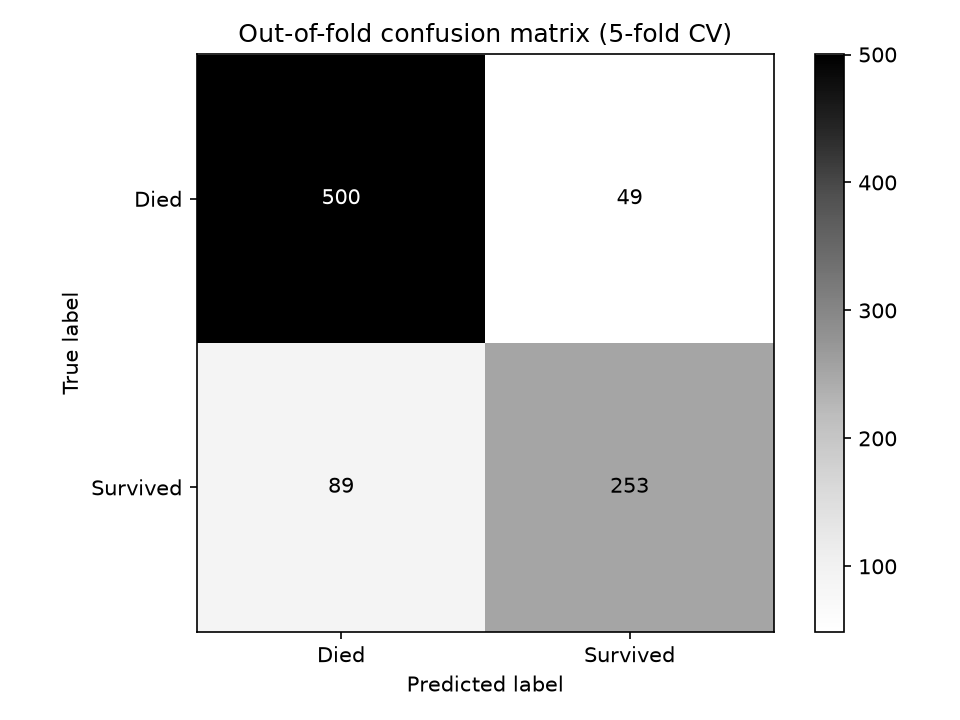
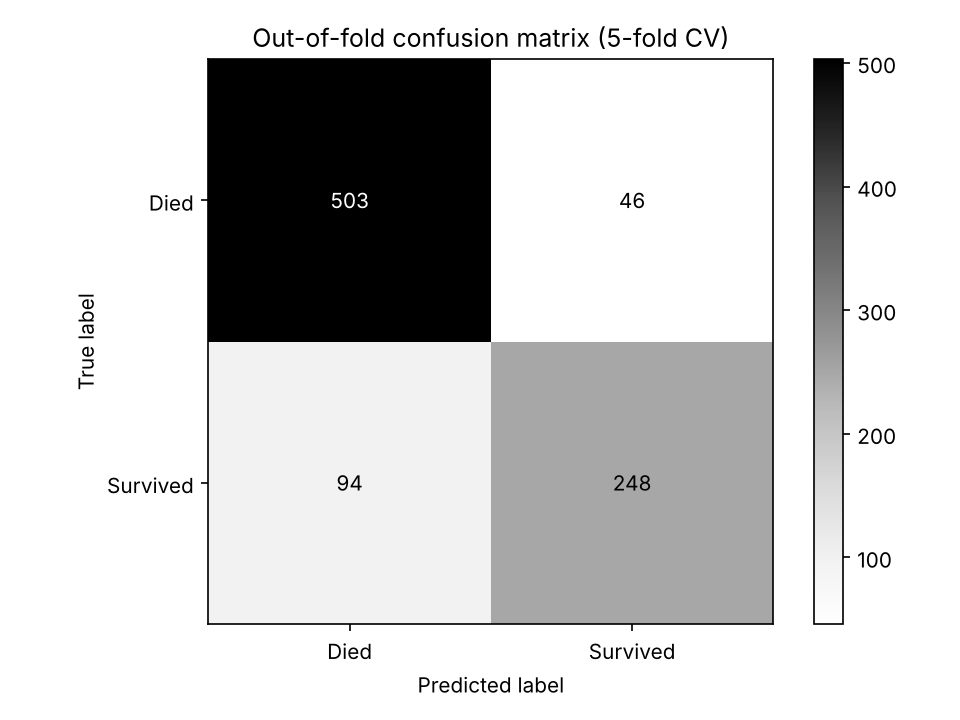
feat: submit woman-child-group model
Women survive and men do not, except where a passenger's travel group
(shared ticket, or surname + class + ticket prefix) shows otherwise:
women whose group's women and boys all died are predicted to die, and
boys whose group all survived are predicted to survive. Group rates are
learned from training folds only, so CV stays leakage-free.

Repeated 10x5-fold CV: 0.841 +/- 0.025. titanic-train now evaluates and
saves this model; gradient boosting stays in titanic-experiments.

Claude-Session: https://claude.ai/code/session_01RfAwneZbQ9h6XaAmY3SnCt

diff --git a/src/titanic/train.py b/src/titanic/train.py
@@ -1,4 +1,4 @@
-"""Tune gradient boosting, evaluate it out-of-fold and save the final model."""
+"""Evaluate the woman-child-group model out-of-fold and save it."""
 
 import logging
 from pathlib import Path
@@ -7,37 +7,35 @@ import joblib
 import matplotlib.pyplot as plt
 import pandas as pd
 from sklearn.metrics import ConfusionMatrixDisplay, classification_report
-from sklearn.model_selection import GridSearchCV, StratifiedKFold, cross_val_predict
+from sklearn.model_selection import (
+    RepeatedStratifiedKFold,
+    StratifiedKFold,
+    cross_val_predict,
+    cross_val_score,
+)
 
 from titanic.data import load_train
-from titanic.pipeline import build_pipeline
+from titanic.groups import WomanChildGroupClassifier
 
 logger = logging.getLogger(__name__)
 
 RANDOM_STATE = 42
 N_SPLITS = 5
+N_REPEATS = 10
 MODEL_PATH = Path("models/model.joblib")
 FIGURE_PATH = Path("reports/figures/confusion_matrix.png")
 CLASS_NAMES = ["Died", "Survived"]
-
-# "model__" targets the pipeline step named "model".
-PARAM_GRID = {
-    "model__n_estimators": [100, 200, 300],
-    "model__learning_rate": [0.05, 0.1],
-    "model__max_depth": [2, 3, 4],
-}
-
 
 def make_cv() -> StratifiedKFold:
     """Return the stratified 5-fold splitter used everywhere in the project."""
     return StratifiedKFold(n_splits=N_SPLITS, shuffle=True, random_state=RANDOM_STATE)
 
 
-def tune(X: pd.DataFrame, y: pd.Series) -> GridSearchCV:
-    """Try every parameter combination with cross-validation and keep the best."""
-    search = GridSearchCV(build_pipeline(), PARAM_GRID, cv=make_cv(), scoring="accuracy")
-    search.fit(X, y)
-    return search
+def make_repeated_cv() -> RepeatedStratifiedKFold:
+    """Return repeated 5-fold CV, for tighter estimates on 891 passengers."""
+    return RepeatedStratifiedKFold(
+        n_splits=N_SPLITS, n_repeats=N_REPEATS, random_state=RANDOM_STATE
+    )
 
 
 def save_confusion_matrix(
@@ -55,23 +53,22 @@ def save_confusion_matrix(
 
 
 def main() -> None:
-    """Tune, evaluate and save the final gradient boosting pipeline."""
+    """Evaluate, fit and save the final woman-child-group model."""
     logging.basicConfig(level=logging.INFO, format="%(levelname)s: %(message)s")
     X, y = load_train()
+    model = WomanChildGroupClassifier()
 
-    search = tune(X, y)
-    std = search.cv_results_["std_test_score"][search.best_index_]
-    logger.info("Best parameters: %s", search.best_params_)
-    logger.info("Tuned CV accuracy: %.3f ± %.3f", search.best_score_, std)
+    scores = cross_val_score(model, X, y, cv=make_repeated_cv(), scoring="accuracy")
+    logger.info("Repeated CV accuracy: %.3f ± %.3f", scores.mean(), scores.std())
 
-    y_pred = cross_val_predict(search.best_estimator_, X, y, cv=make_cv())
+    y_pred = cross_val_predict(model, X, y, cv=make_cv())
     report = classification_report(y, y_pred, target_names=CLASS_NAMES, digits=3)
     logger.info("Out-of-fold classification report:\n%s", report)
     save_confusion_matrix(y, y_pred)
     logger.info("Saved confusion matrix to %s", FIGURE_PATH)
 
     MODEL_PATH.parent.mkdir(parents=True, exist_ok=True)
-    joblib.dump(search.best_estimator_, MODEL_PATH)
+    joblib.dump(model.fit(X, y), MODEL_PATH)
     logger.info("Saved model to %s", MODEL_PATH)
 
 

diff --git a/src/titanic/groups.py b/src/titanic/groups.py
@@ -1,0 +1,73 @@
+"""Woman-child-group model: passengers who travelled together shared a fate.
+
+The baseline rule is that women survive and men do not. Two exceptions are
+learned from the training labels of each passenger's travel group:
+
+- a woman whose group's women and boys all died is predicted to die;
+- a boy (title Master) whose group's women and boys all survived is predicted
+  to survive.
+
+Adult men are left out of the group statistics because almost all of them
+died whatever their group did. Groups are matched by ticket number and by
+surname, so they link test passengers to their relatives in the training set.
+"""
+
+import numpy as np
+import pandas as pd
+from sklearn.base import BaseEstimator, ClassifierMixin
+
+from titanic.features import extract_title
+
+
+def group_keys(df: pd.DataFrame) -> pd.DataFrame:
+    """Return the ticket and family keys used to match travel groups.
+
+    The family key combines surname, class and all but the last ticket digit,
+    so relatives on consecutive tickets match while unrelated passengers who
+    share a common surname do not.
+    """
+    surname = df["Name"].str.split(",").str[0].str.strip()
+    ticket = df["Ticket"].astype(str)
+    return pd.DataFrame(
+        {
+            "ticket": ticket,
+            "family": surname + "_" + df["Pclass"].astype(str) + "_" + ticket.str[:-1],
+        },
+        index=df.index,
+    )
+
+
+def is_woman_or_boy(df: pd.DataFrame) -> pd.Series:
+    """Return True for women and for boys (title Master)."""
+    return (df["Sex"] == "female") | (extract_title(df["Name"]) == "Master")
+
+
+class WomanChildGroupClassifier(ClassifierMixin, BaseEstimator):
+    """Predict survival from sex, then correct it with group survival."""
+
+    def fit(self, X: pd.DataFrame, y: pd.Series) -> "WomanChildGroupClassifier":
+        """Record how the women and boys of each training group fared."""
+        members = is_woman_or_boy(X).to_numpy()
+        keys = group_keys(X)[members].assign(Survived=np.asarray(y)[members])
+        self.group_rates_ = {
+            key: keys.groupby(key)["Survived"].mean() for key in ("ticket", "family")
+        }
+        self.classes_ = np.array([0, 1])
+        return self
+
+    def group_rate(self, X: pd.DataFrame) -> pd.Series:
+        """Return each passenger's group survival rate (NaN if no known group)."""
+        keys = group_keys(X)
+        rates = pd.concat(
+            [keys[key].map(rates) for key, rates in self.group_rates_.items()], axis=1
+        )
+        return rates.mean(axis=1)
+
+    def predict(self, X: pd.DataFrame) -> np.ndarray:
+        """Return 1 for predicted survivors and 0 otherwise."""
+        rate = self.group_rate(X)
+        female = X["Sex"] == "female"
+        boy = extract_title(X["Name"]) == "Master"
+        survived = female & (rate != 0)
+        survived |= boy & (rate == 1)
+        return survived.astype(int).to_numpy()

diff --git a/tests/test_groups.py b/tests/test_groups.py
@@ -1,0 +1,56 @@
+"""Tests for the woman-child-group model."""
+
+import pandas as pd
+
+from titanic.groups import WomanChildGroupClassifier, group_keys
+
+
+def passengers(rows: list[tuple[str, str, str]]) -> pd.DataFrame:
+    """Return passengers from (name, sex, ticket) tuples, all in third class."""
+    return pd.DataFrame(rows, columns=["Name", "Sex", "Ticket"]).assign(Pclass=3)
+
+
+TRAIN = passengers(
+    [
+        ("Doe, Mrs. Jane", "female", "111"),
+        ("Doe, Master. Tom", "male", "111"),
+        ("Roe, Mrs. Ann", "female", "222"),
+        ("Roe, Master. Sam", "male", "222"),
+        ("Loe, Mr. Mark", "male", "333"),
+    ]
+)
+SURVIVED = pd.Series([0, 0, 1, 1, 1])
+
+
+def test_family_key_matches_consecutive_tickets():
+    keys = group_keys(
+        passengers([("Doe, Mr. A", "male", "3101"), ("Doe, Mrs. B", "female", "3102")])
+    )
+    assert keys["family"].nunique() == 1
+    assert keys["ticket"].nunique() == 2
+
+
+def test_predicts_by_sex_without_a_known_group():
+    model = WomanChildGroupClassifier().fit(TRAIN, SURVIVED)
+    test = passengers(
+        [("New, Miss. Eve", "female", "999"), ("New, Master. Ed", "male", "999")]
+    )
+    assert model.predict(test).tolist() == [1, 0]
+
+
+def test_woman_follows_a_group_that_died():
+    model = WomanChildGroupClassifier().fit(TRAIN, SURVIVED)
+    test = passengers([("Doe, Miss. Kim", "female", "111")])
+    assert model.predict(test).tolist() == [0]
+
+
+def test_boy_follows_a_group_that_survived():
+    model = WomanChildGroupClassifier().fit(TRAIN, SURVIVED)
+    test = passengers([("Roe, Master. Ben", "male", "222")])
+    assert model.predict(test).tolist() == [1]
+
+
+def test_adult_men_are_ignored_in_group_rates():
+    model = WomanChildGroupClassifier().fit(TRAIN, SURVIVED)
+    test = passengers([("Loe, Master. Joe", "male", "333")])
+    assert model.predict(test).tolist() == [0]

diff --git a/src/titanic/experiments.py b/src/titanic/experiments.py
@@ -10,6 +10,7 @@ from sklearn.model_selection import StratifiedKFold, cross_val_score
 from sklearn.pipeline import Pipeline
 
 from titanic.data import load_train
+from titanic.groups import WomanChildGroupClassifier
 from titanic.pipeline import RAW_CATEGORICAL, RAW_NUMERIC, build_pipeline
 
 logger = logging.getLogger(__name__)
@@ -44,8 +45,13 @@ def get_models() -> dict[str, ClassifierMixin]:
     }
 
 
+def get_group_models() -> dict[str, ClassifierMixin]:
+    """Return models that take raw passenger rows, without the pipeline."""
+    return {"Woman-child-group": WomanChildGroupClassifier()}
+
+
 def evaluate_cv(
-    pipeline: Pipeline, X: pd.DataFrame, y: pd.Series
+    pipeline: Pipeline | ClassifierMixin, X: pd.DataFrame, y: pd.Series
 ) -> tuple[float, float]:
     """Return mean and standard deviation of accuracy across stratified folds."""
     cv = StratifiedKFold(n_splits=N_SPLITS, shuffle=True, random_state=RANDOM_STATE)
@@ -73,6 +79,9 @@ def main() -> None:
     logger.info("Model comparison (selected features: raw + Title):")
     for name, model in get_models().items():
         mean, std = evaluate_cv(build_pipeline(model), X, y)
+        logger.info("  %-22s %.3f ± %.3f", name, mean, std)
+    for name, model in get_group_models().items():
+        mean, std = evaluate_cv(model, X, y)
         logger.info("  %-22s %.3f ± %.3f", name, mean, std)
 
 

diff --git a/README.md b/README.md
@@ -18,7 +18,19 @@ The project focuses on handling that data correctly rather than on chasing a lea
 - **Honest validation:** every decision is made with 5-fold stratified cross-validation and compared against simple baselines.
 - **Evidence-based features:** each engineered feature was tested in an ablation study and kept only if it improved the score.
 
-## Pipeline
+## Model
+
+The submitted model is a **woman-child-group** rule. Families and groups on the same ticket tended to live or die together, so:
+
+```
+start from: women survive, men do not
+  -> a woman whose travel group's women and boys all died   -> predicted to die
+  -> a boy (Master) whose group's women and boys all lived  -> predicted to survive
+```
+
+Groups are matched by ticket number, and by surname + class + ticket prefix, which links test passengers to relatives in the training set. Adult men are left out of the group statistics because almost all of them died whatever their group did. The group rates are learned only from the training folds, so cross-validation stays leakage-free.
+
+The gradient boosting pipeline is kept for comparison in `titanic-experiments`:
 
 ```
 raw passenger data
@@ -26,7 +38,7 @@ raw passenger data
   -> ColumnTransformer
        numeric      Age, Fare, SibSp, Parch  -> median imputation -> scaling
        categorical  Sex, Pclass, Embarked, Title -> most-frequent imputation -> one-hot encoding
-  -> GradientBoostingClassifier (tuned with GridSearchCV)
+  -> GradientBoostingClassifier
 ```
 
 ## Results
@@ -40,7 +52,10 @@ All cross-validation (CV) scores are accuracy on 5 stratified folds of the 891 t
 | Logistic regression, raw columns | 0.797 ± 0.015 |
 | Gradient boosting, raw columns | 0.827 ± 0.020 |
 | Gradient boosting, raw columns + Title | 0.839 ± 0.011 |
-| **Gradient boosting, raw + Title, tuned** | **0.845 ± 0.010** |
+| Gradient boosting, raw + Title, tuned | 0.845 ± 0.010 |
+| **Woman-child-group rule** | **0.843 ± 0.018** |
+
+On 10 × 5-fold repeated CV the woman-child-group rule scores 0.841 ± 0.025. The CV score is about the same as the tuned gradient boosting model, but the rule has no tuned parameters and fits only two exceptions to the women-survive baseline, so its CV score is much less optimistic. Public Kaggle notebooks that use the same rule report about 0.818 on the public leaderboard.
 
 **Feature ablation (gradient boosting):** adding Title gave the largest and most stable gain (+0.012, with the spread halved). FamilySize, IsAlone and HasCabin added nothing on top of Title, so they were left out.
 
@@ -48,14 +63,15 @@ All cross-validation (CV) scores are accuracy on 5 stratified folds of the 891 t
 
 | Class | Precision | Recall | F1 |
 |---|---|---|---|
-| Died | 0.849 | 0.911 | 0.879 |
-| Survived | 0.838 | 0.740 | 0.786 |
+| Died | 0.843 | 0.916 | 0.878 |
+| Survived | 0.844 | 0.725 | 0.780 |
 
-**Kaggle public leaderboard:** 0.761 (159 of 209 passengers), against 0.766 (160 of 209) for Kaggle's women-survive example submission.
+**Kaggle public leaderboard:** the previous gradient boosting model scored 0.761 (159 of 209 passengers), against 0.766 (160 of 209) for Kaggle's women-survive example submission. The woman-child-group submission changes 17 of the 418 test predictions from that example submission (9 women predicted to die, 8 boys predicted to survive). Its leaderboard score has not been recorded yet.
 
 ## Limitations
 
-- **CV overestimates real performance.** The tuned CV score (0.845) is optimistic, because the features, model and parameters were all chosen by comparing CV scores on the same 891 passengers. The leaderboard score is the independent check.
+- **CV overestimates real performance.** The CV scores are optimistic, because the features, model and parameters were all chosen by comparing CV scores on the same 891 passengers. The leaderboard score is the independent check.
+- **Perfect scores at the top of the leaderboard are not reachable honestly.** The true outcome of every passenger is public, so the top of the Titanic leaderboard is crowded with 1.0 submissions copied from those records. Honest models usually score between 0.78 and 0.82.
 - **The public leaderboard is noisy.** It scores only 209 passengers, so each passenger is worth about 0.5 percentage points. The final model and the women-survive baseline differ by one passenger there, which is within noise.
 - **The model misses about a quarter of survivors** (recall 0.740). It leans towards predicting "died", the majority class, and struggles most with the less typical survivors, such as men who survived and women in third class who survived.
 
@@ -83,7 +99,7 @@ python scripts/download_data.py
 
 ```bash
 titanic-experiments   # feature ablation and model comparison
-titanic-train         # tune, evaluate and save models/model.joblib
+titanic-train         # evaluate and save models/model.joblib
 titanic-predict       # write data/submissions/submission.csv
 ```
 
@@ -102,8 +118,9 @@ src/titanic/
   data.py           load train.csv and test.csv
   features.py       Title, FamilySize, IsAlone, HasCabin
   pipeline.py       feature engineering, preprocessing and model
+  groups.py         woman-child-group model (submitted)
   experiments.py    feature ablation and model comparison
-  train.py          hyperparameter tuning, evaluation, model saving
+  train.py          evaluation and model saving
   predict.py        Kaggle submission file
 notebooks/01_eda.ipynb   exploratory data analysis
 scripts/download_data.py Kaggle API download
@@ -115,7 +132,6 @@ Kaggle data, trained models and submissions are git-ignored.
 
 ## Roadmap
 
-- Repeated cross-validation to give tighter confidence intervals on small differences
 - Probability calibration and decision-threshold tuning to improve recall on survivors
 
 ## Tech stack

diff --git a/CHANGELOG.md b/CHANGELOG.md
@@ -3,6 +3,15 @@
 All notable changes to this project are documented in this file.
 The format follows [Keep a Changelog](https://keepachangelog.com/en/1.1.0/), and the project uses [Semantic Versioning](https://semver.org/).
 
+## [Unreleased]
+
+### Added
+- Woman-child-group model (`titanic.groups`): women survive and men do not, except where a passenger's travel group (shared ticket or family) shows otherwise. It is now the model that `titanic-train` saves and `titanic-predict` submits.
+- Repeated 10 × 5-fold cross-validation in `titanic-train`.
+
+### Removed
+- Gradient boosting grid search from `titanic-train`; gradient boosting is still compared in `titanic-experiments`.
+
 ## [0.1.0] - 2026-10-21
 
 ### Added
